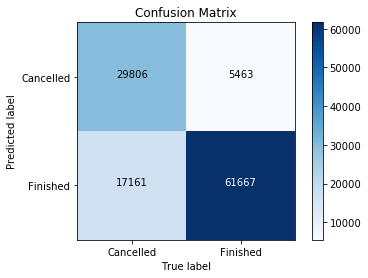
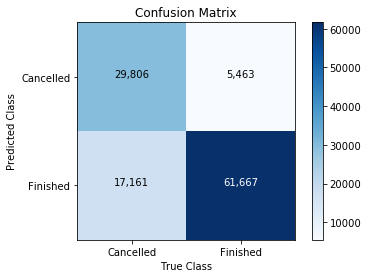
Added figure labels

diff --git a/EDA/EDA.py b/EDA/EDA.py
@@ -73,10 +73,10 @@ def plot_confusion_matrix(cm):
     plt.xticks(np.arange(2), ["Cancelled", "Finished"])
     plt.yticks(np.arange(2), ["Cancelled", "Finished"])
     for i, j in product(range(cm.shape[0]), range(cm.shape[1])):
-        plt.text(j, i, format(cm[i, j], 'd'), horizontalalignment="center",
+        plt.text(j, i, "{:,.0f}".format(cm[i, j]), horizontalalignment="center",
                  color="white" if cm[i, j] > cm.max() / 2 else "black")
-    plt.xlabel('True label')
-    plt.ylabel('Predicted label')
+    plt.xlabel('True Class')
+    plt.ylabel('Predicted Class')
     plt.show()
 
 

diff --git a/README.md b/README.md
@@ -1,16 +1,8 @@
 # Rental Car Cancellation Predictor
 
+&nbsp;
 ![Silvercar Logo](/images/image.jpg)
-
-## Web Application
-
-I made a prototype of a dashboard that could be used to monitor the expected number of rental car cancellations
-for each of Silvercar's locations. The new reservation page allows users to change different reservation features
-to see how it affects the cancellation probability. Try it out here:
-
-http://54.208.25.214/
-
-http://54.208.25.214/new-reservation/
+&nbsp;
 
 
 ## Background and Motivation
@@ -37,11 +29,13 @@ I set out to create a model that could predict which reservations will be cancel
 ## Results
 
 I achieved 80% accuracy, 84% precision, and 63% recall using XGBoost's implementation
-of a gradient boosting classifier.
+of a gradient boosting classifier. The confusion matrix in figure 1 shows the number of correctly and incorrectly
+labeled cancellations and finished rides.
 
 &nbsp;
 &nbsp;
 ![Confusion Matrix 1](/images/confusion_matrix.png)
+*Figure 1: Confusion matrix for 0.5 threshold*
 &nbsp;
 &nbsp;
 
@@ -58,16 +52,18 @@ informing Silvercar that they need to have more cars available.
 
 Because of these conflicting interests, I propose that Silvercar should use one threshold for
 revenue forecasting and another for fleet management. For revenue forecasting, I lowered the
-threshold to 0.35 and increased recall to 77%. At that threshold, accuracy came down to 78% and
-precision came down to 72%.
+threshold to 0.35 and increased recall to 77% as you can see in the increased number of correctly
+labeled cancellations in figure 2. At that threshold, accuracy came down to 78% and
+precision came down to 72% as you can see in the .
 
 &nbsp;
 &nbsp;
 ![Confusion Matrix 2](/images/confusion_matrix2.png)
+*Figure 2: Confusion matrix for 0.35 threshold*
 &nbsp;
 &nbsp;
 
-As for opportunities to prevent cancellations, the features below are the most important features
+As for opportunities to prevent cancellations, figure 3 below illustrates the most important features
 according to the final model. Unsurprisingly most of the features are out of Silvercar's control,
 but users are less likely to cancel when applying promo codes to their reservations. We would need
 to conduct cost-benefit analysis, but offering promotions to users that are more likely to cancel
@@ -84,3 +80,16 @@ based off of the various cancellation reasons.
 &nbsp;
 &nbsp;
 ![Feature Importances](/images/feature_importances.png)
+*Figure 3: Feature Importances*
+&nbsp;
+&nbsp;
+
+## Web Application
+
+I made a prototype of a dashboard that could be used to monitor the expected number of cancellations
+for each of Silvercar's locations. The new reservation page allows users to change different reservation features
+to see how it affects the cancellation probability. Try it out here:
+
+http://54.208.25.214/
+
+http://54.208.25.214/new-reservation/
